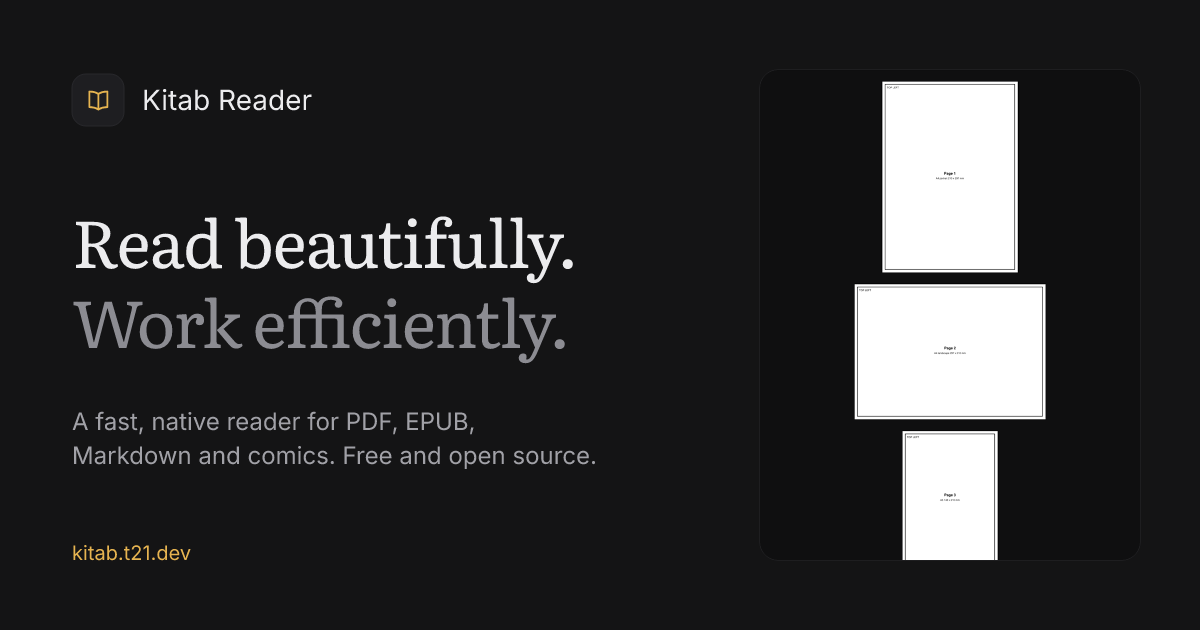
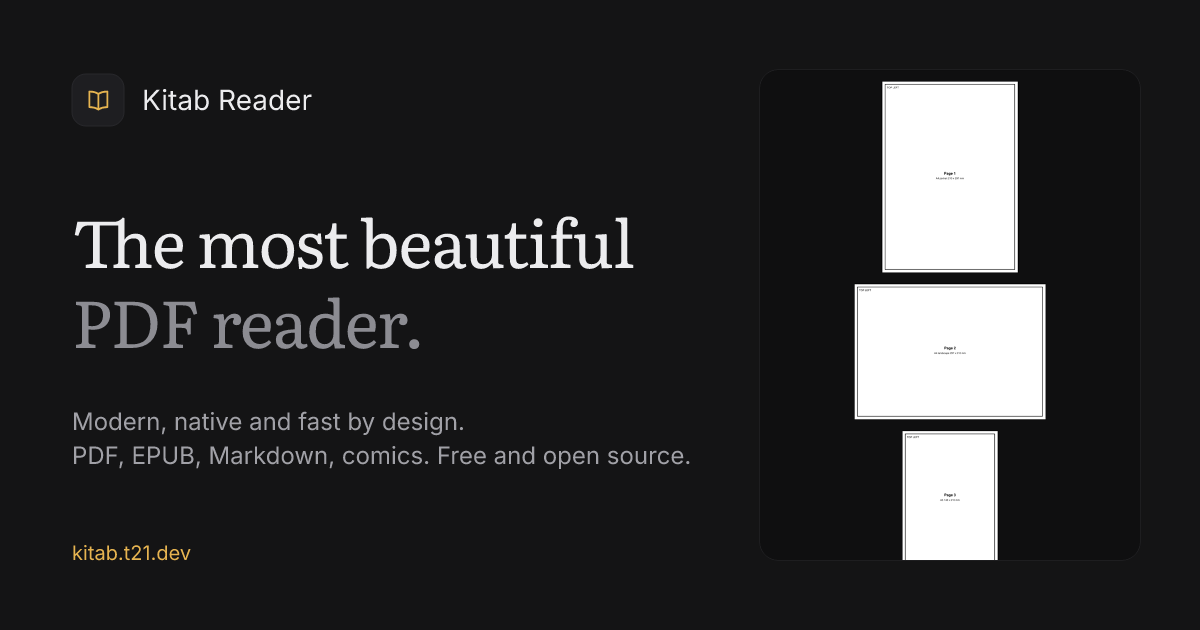
feat: position kitab as the most beautiful, modern pdf reader
Hero, tagline, meta description, home title, OG image and manifest now
lead with design and performance ("The most beautiful PDF reader. Fast
by design."). The idle figure (0 % CPU) is measured on the current
build. The status line moves from Phase 0 to Phase 2.

Claude-Session: https://claude.ai/code/session_01StsFQCx13tTFBxXmMVa13E

Changed region(s): [[0.0617, 0.3317, 0.5242, 0.573], [0.0617, 0.6333, 0.5858, 0.754]]

diff --git a/src/content.ts b/src/content.ts
@@ -8,9 +8,9 @@ export const SITE = {
   name: "Kitab Reader",
   shortName: "Kitab",
   url: "https://kitab.t21.dev",
-  tagline: "Read beautifully. Work efficiently.",
+  tagline: "The most beautiful PDF reader. Fast by design.",
   description:
-    "Kitab Reader is a free, open-source reader for PDF, EPUB, Markdown and comics. It is native and GPU-drawn, opens in a blink, and keeps your files on your computer. For Windows, macOS and Linux.",
+    "Kitab Reader is a beautiful, modern PDF reader built with an eye for performance: native, drawn on the GPU, open in a blink and idle at 0 % CPU. Free and open source, for PDF, EPUB, Markdown and comics, on Windows, macOS and Linux. Your files stay on your computer.",
   repo: "https://github.com/t21dev/kitab",
   releases: "https://github.com/t21dev/kitab/releases",
   plan: "https://github.com/t21dev/kitab/blob/main/docs/PLAN.md",
@@ -20,7 +20,7 @@ export const SITE = {
   author: { name: "TriptoAfsin", github: "https://github.com/TriptoAfsin" },
   license: { name: "AGPL-3.0-or-later", url: "https://www.gnu.org/licenses/agpl-3.0.html" },
   status: "In development. There is no release to download yet.",
-  phase: "Phase 0: foundations and spikes",
+  phase: "Phase 2: shell, Home and Settings",
   locale: "en",
 } as const;
 
@@ -293,9 +293,9 @@ export const ROUTES: Route[] = [
     path: "/",
     file: "index.html",
     md: "index.md",
-    title: "Kitab Reader: a fast, native reader for PDF, EPUB and Markdown",
+    title: "Kitab Reader: the most beautiful, modern PDF reader, built for performance",
     description:
-      "Free, open-source PDF, EPUB, Markdown and comic reader for Windows, macOS and Linux. Native and GPU-drawn, quick to open, with tabs, a library, forms, signatures and no telemetry.",
+      "A beautiful, modern PDF reader with an eye for performance. Native and GPU-drawn, quick to open, idle at 0 % CPU. Free and open source for Windows, macOS and Linux, with tabs, split view, PDF tools, forms, signatures and no telemetry.",
     changefreq: "weekly",
     priority: 1,
   },

diff --git a/src/pages/Home.tsx b/src/pages/Home.tsx
@@ -14,13 +14,13 @@ function Hero({ data }: { data: PageData }) {
         {data.release ? `Version ${data.release.tag.replace(/^v/, "")} is out` : `In development · ${SITE.phase}`}
       </p>
       <h1 id="hero-title" className="rise" style={{ "--i": 1 } as React.CSSProperties}>
-        Read beautifully.
+        The most beautiful PDF reader.
         <br />
-        <span>Work efficiently.</span>
+        <span>Fast by design.</span>
       </h1>
       <p className="lede rise" style={{ "--i": 2 } as React.CSSProperties}>
-        Kitab is a reader for PDF, EPUB, Markdown and comics. It is native and drawn on the GPU, it opens in a blink, and it
-        keeps your files on your computer.
+        Kitab is a modern reader for PDF, EPUB, Markdown and comics, designed down to the last pixel and built with an eye
+        for performance: native, drawn on the GPU, open in a blink and idle at 0 % CPU. Your files stay on your computer.
       </p>
       <div className="ctas rise" style={{ "--i": 3 } as React.CSSProperties}>
         <a className="btn btn--primary" href={SITE.repo}>
